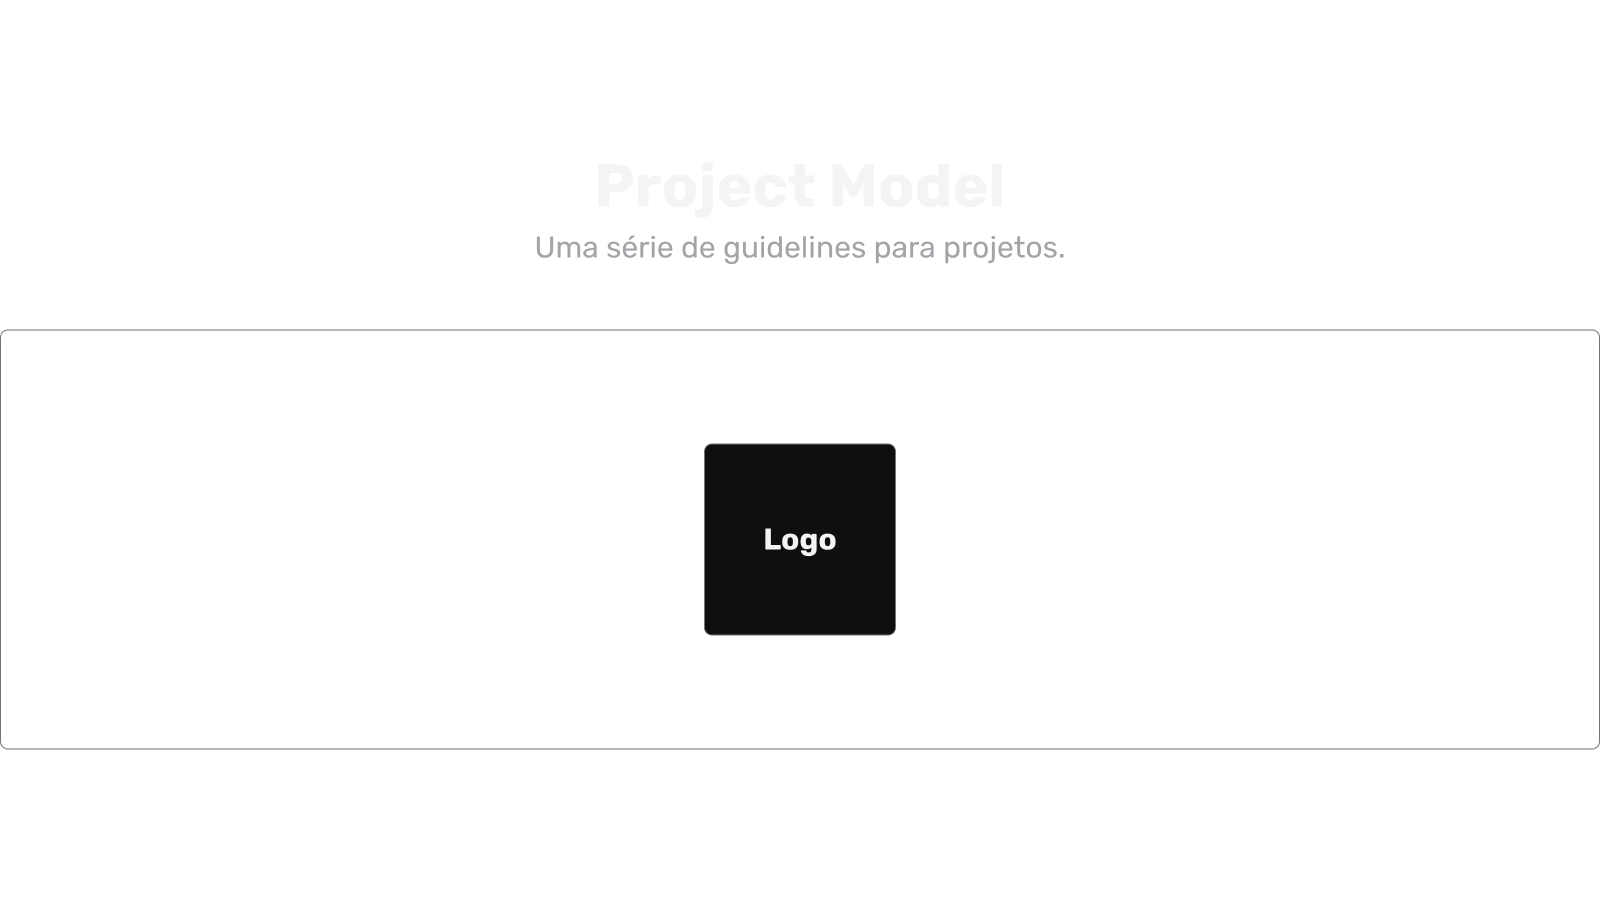
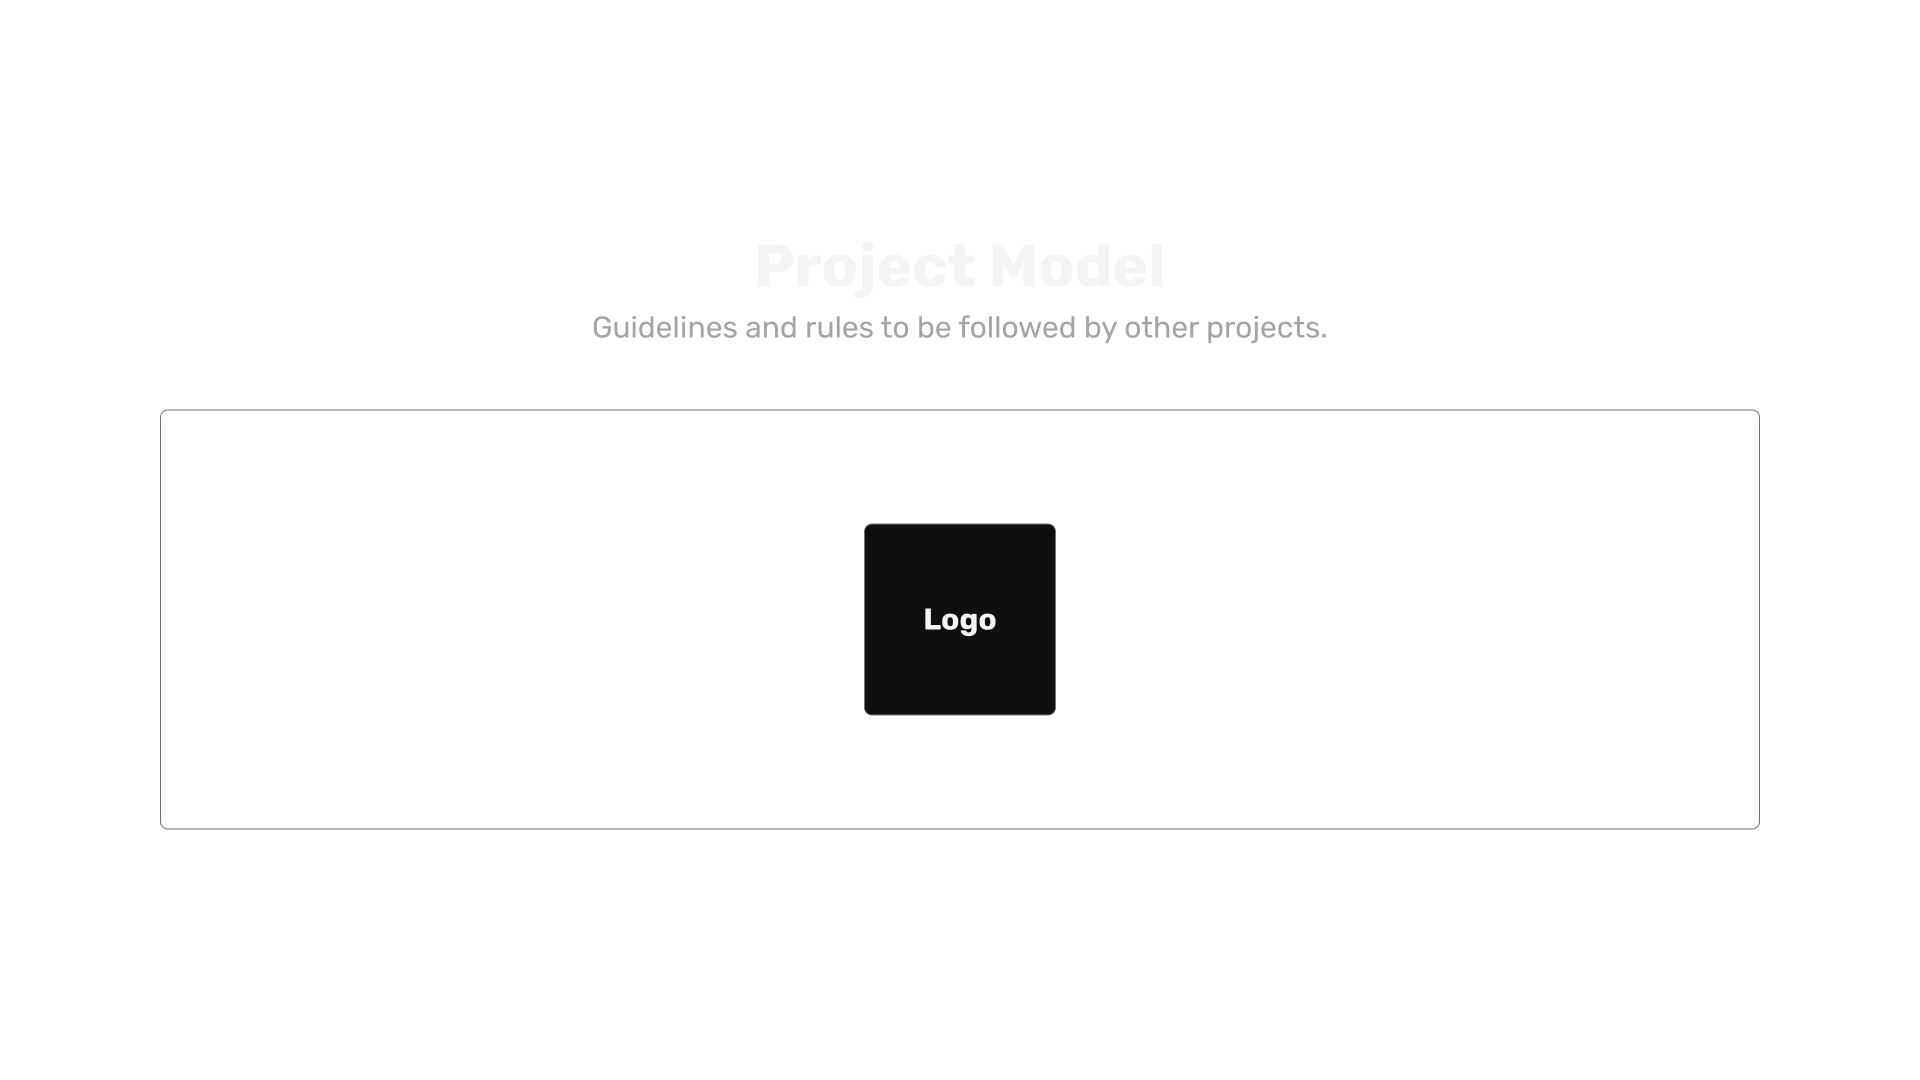
readme: intro

Changed region(s): [[0.4375, 0.4667, 0.5625, 0.7156], [0.3125, 0.2489, 0.6875, 0.3111]]

diff --git a/README.md b/README.md
@@ -23,7 +23,9 @@
   * [Complexity 2](#complexity-2)
 
 # Intro
-This project defines rules and guidelines to be followed by other projects.
+This project defines rules and guidelines to be followed by other projects. All internal projects should follow theses rules.
+
+This project-model should also facilitate de bootstrap of a new project as covers all product & project creation from scratch.
 
 # Design
 Inside this repository lies a highly customizable CSS framework to be used in internal projects.
